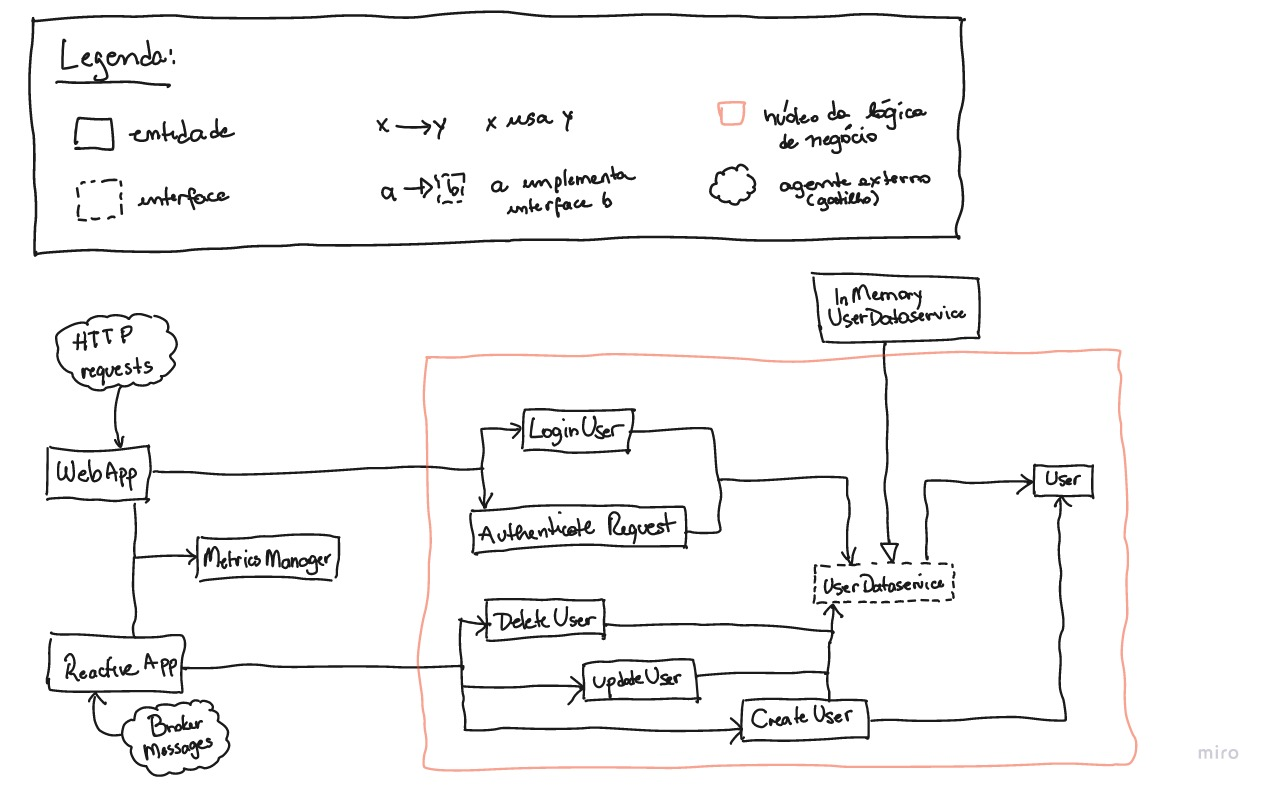
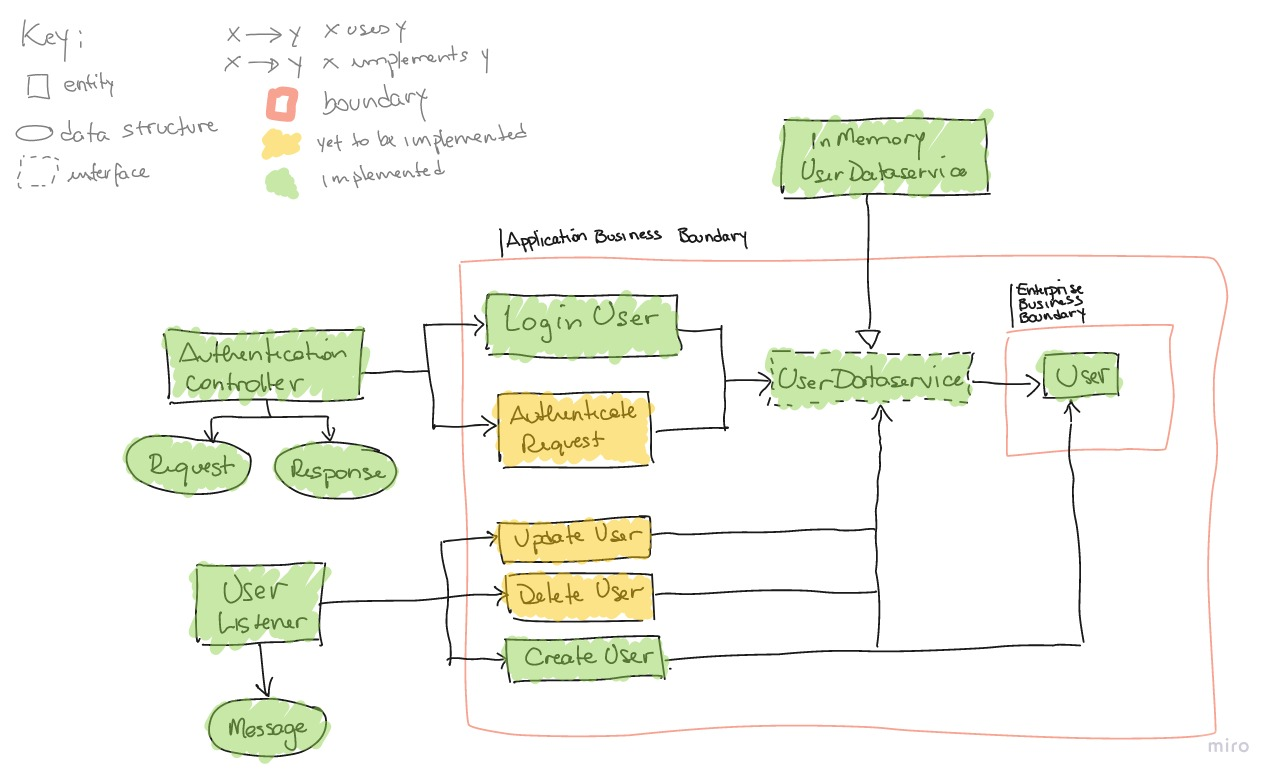
update and reduce docs

Changed region(s): [[0.0, 0.0, 0.9535, 0.9821], [0.892, 0.3069, 0.9535, 0.3376]]

diff --git a/docs/README.md b/docs/README.md
@@ -15,66 +15,8 @@ More here: [Authentication & Authorization in Microservices Architecture][auth-p
 
 ![architecture diagram][diagram]
 
-::: details Translation of the Key
-  - continuous-line box: entity
-  - dashed-line box: interface
-  - x --> y: x uses y
-  - a --|> interface: a implements interface b
-  - red/orange box: business logic core
-  - cloud: external agent (trigger)
-:::
-
 This service implements an architecture inspired by Uncle Bob's Clean Architecture.
 It praises for low coupling between parts and explicit boudaries.
 
-In order to explain the architecture and it's behavior, two data flows will be described:
-  1. [authentication of a request](#authentication-of-a-request)
-  2. [creation of a new user](#creation-of-a-new-user)
-
-
-## Authentication of a request
-
-![highlight for authentication][auth-highlight]
-
-This service acts as API Gateway and handles the authentication for the system. Incomming
-requests hit the **WebApp** component, where all the logic for dealing with HTTP requests
-is implemented. It adopts [ExpressJS][expressjs] as web framework and defines a route
-identically to another internal service (to act as API Gateway). It first runs the authentication,
-by delegating this job to **AuthenticateRequest** component, then it acts as proxy to the
-internal service. Note that WebApp, by using AuthenticateRequest, it completely decouples
-the web framework decision from the actual implementation of the authentication logic -- i.e.
-today the service uses ExpressJS, but if it's needed to change for another framework, the
-migration will be seamless.
-
-During the authentication process, AuthenticateRequest uses the _interface_ **UserDataservice**
-to retrieve the required data. Since it is an interface, the concrete implementation
-**InMemoryUserDataservice** shall be exchanged for, say, **MongoDBUserDataservice** also
-seamlessly, as long as MongoDBUserDataservice implements the same UserDataservice interface.
-
-
-## Creation of a new user
-
-![highlight for creation][creation-highlight]
-
-This service adopts a reactive architecture, since it doesn't implement any method for
-allowing external clients to create users. Although, it does need the information of users
-of the system, for the purposes of authentication. Then, it reacts to events (or messages)
-of users created elsewhere.
-
-For that reason, **ReactiveApp** implements a [Kafka][kafka] client and sets it to listen
-to _new.user_ channel of messages. Whenever a new message from this channel is broadcast,
-ReactiveApp extracts the payload of the message and delegates the job to **CreateUser**
-component. Again, with this, the choice of message broker client is completely decoupled
-from the implementation, supporting a possible migration to [NATS Streaming][stan] to occur
-seamlessly.
-
-The job implemented by CreateUser runs similar to how AuthenticateRequest does: using the
-UserDataservice interface, instead of the actual implementation InMemoryUserDataservice.
-
 [auth-post]: https://dev.to/behalf/authentication-authorization-in-microservices-architecture-part-i-2cn0
 [diagram]: ./alexia-auth_gateway-final.jpg
-[expressjs]: https://expressjs.com/
-[kafka]: https://kafka.apache.org/
-[stan]: https://docs.nats.io/nats-streaming-concepts/intro
-[auth-highlight]: ./auth.jpg
-[creation-highlight]: ./create.jpg
